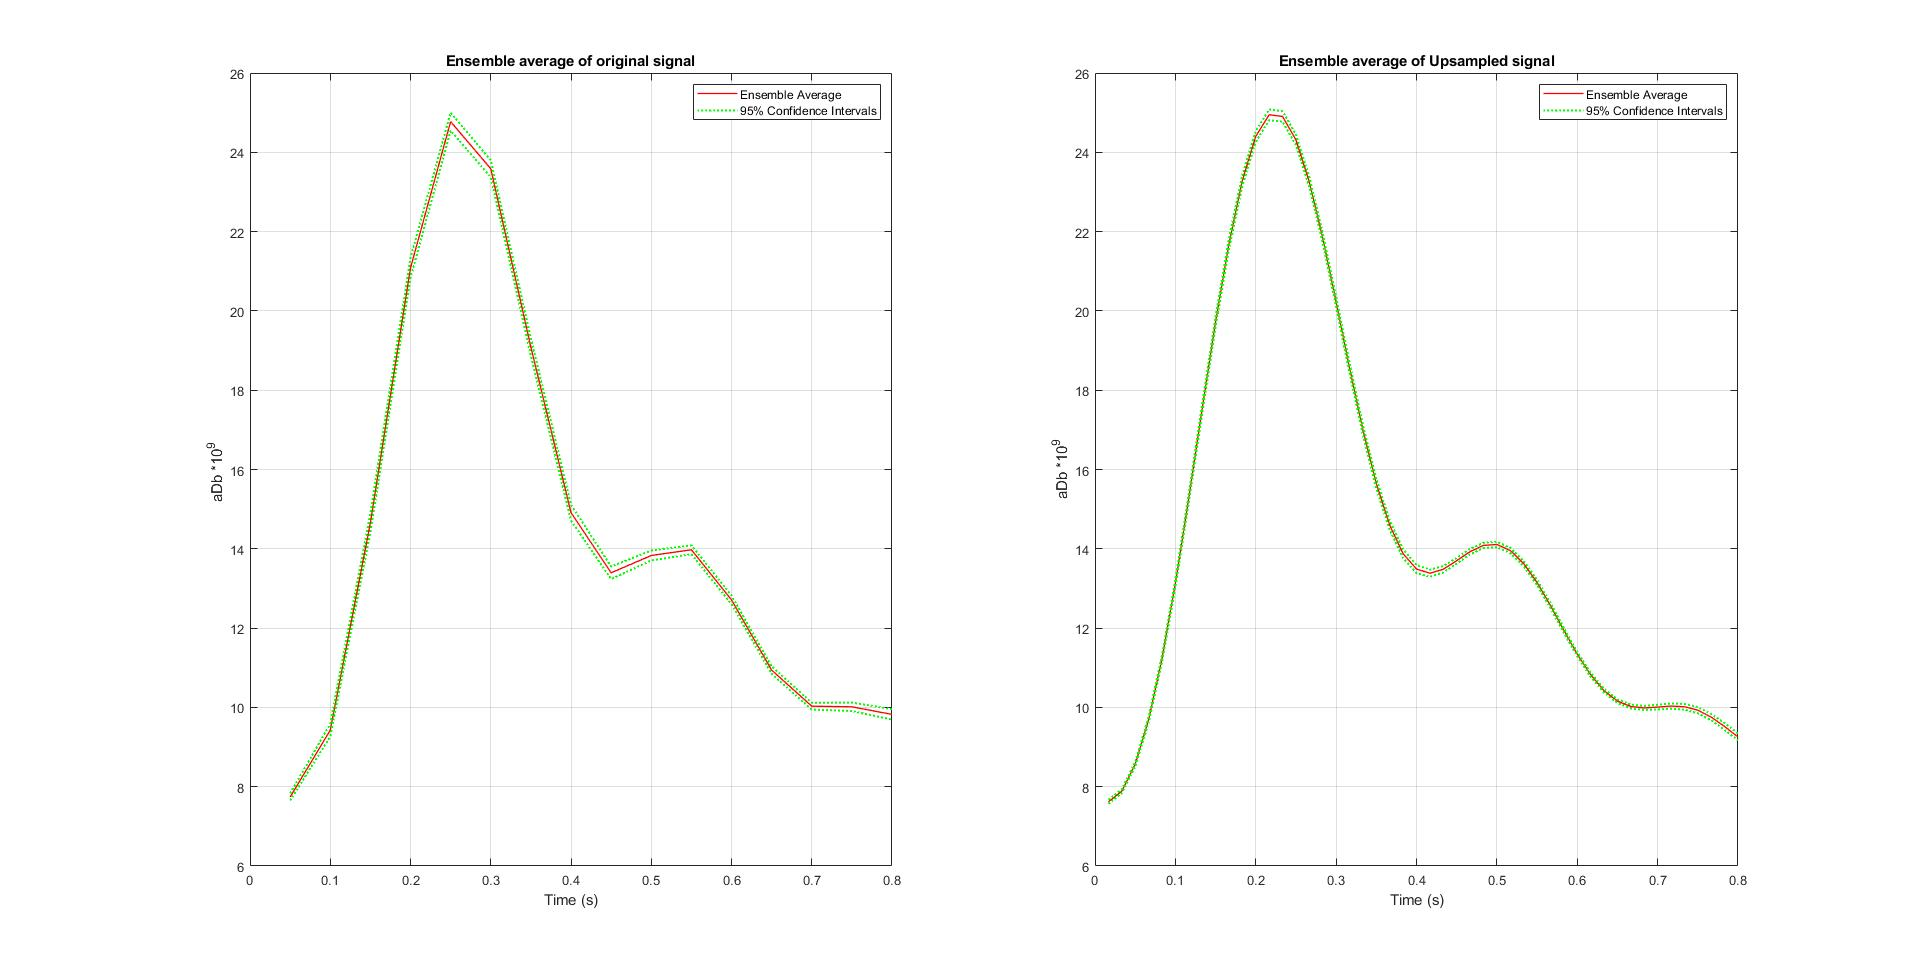
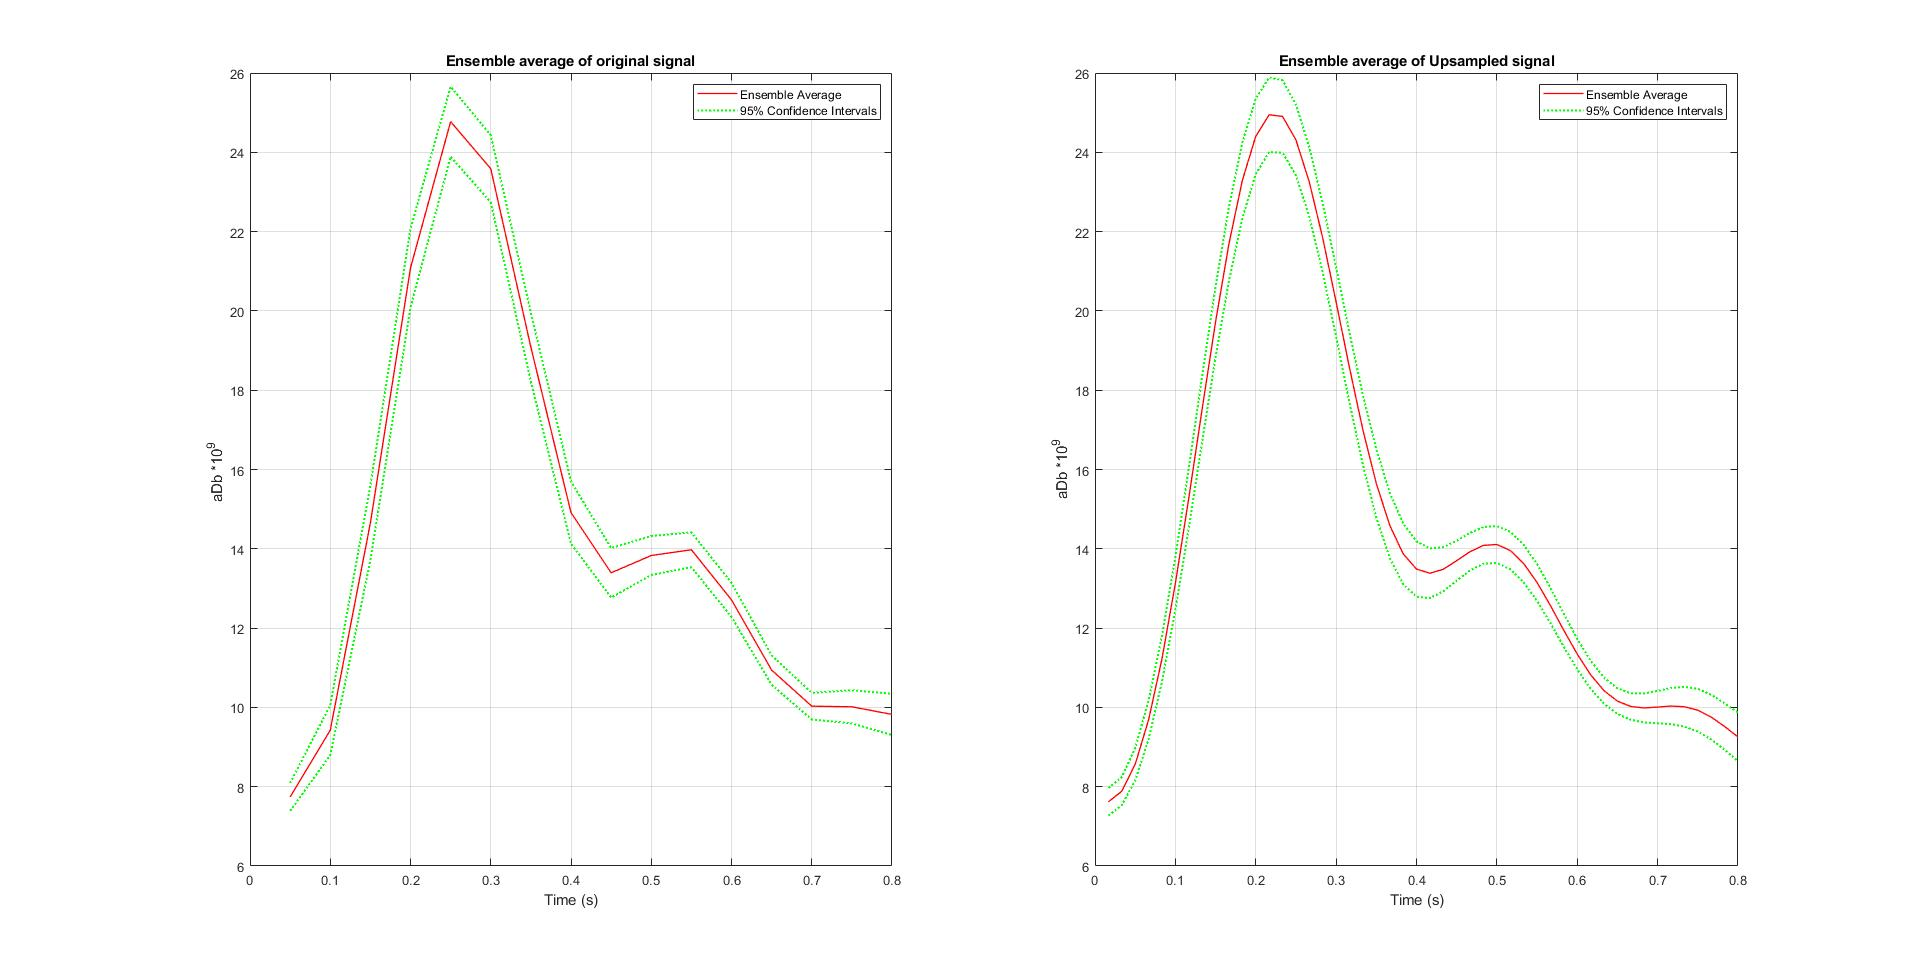
confidence interval
solved the issue with the confidence interval

diff --git a/Codes/pulsatility.m b/Codes/pulsatility.m
@@ -40,7 +40,7 @@ figure()
 plot(avg)
 
 %% Test space
-i=1:1:length(minima);
+
 %% Finding the signal using the find signal
 % take the initial segment as a prototype signal to match it for the whole
 % signal and then try to find the similar occurances in a singal. Probably
@@ -178,7 +178,7 @@ legend('Ensemble Average', '95% Confidence Intervals')
 
 subplot(1,2,1)
 ensavg = mean(cyc,1);                                                   % Calculate Ensemble Average
-ci95 = 1.96*std(cyc,[],1)/sqrt(numel(cyc));                             % Calculate 95% Confidence Intervals                                    
+ci95 = 1.96*std(cyc,[],1)/sqrt(count);                             % Calculate 95% Confidence Intervals                                    
 plot(x, ensavg, '-r', 'LineWidth',1)
 hold on
 plot(x, ensavg+ci95, ':g', 'LineWidth',1.5)
@@ -192,7 +192,7 @@ legend('Ensemble Average', '95% Confidence Intervals')
 
 subplot(1,2,2)
 ensavg = mean(cycu,1);                                                   % Calculate Ensemble Average
-ci95 = 1.96*std(cycu,[],1)/sqrt(count);                             % Calculate 95% Confidence Intervals  
+ci95 = 1.96*std(cycu,[],1)/sqrt(count_u);                             % Calculate 95% Confidence Intervals  
 plot(x_u, ensavg, '-r', 'LineWidth',1)
 hold on
 plot(x_u, ensavg+ci95, ':g', 'LineWidth',1.5)
